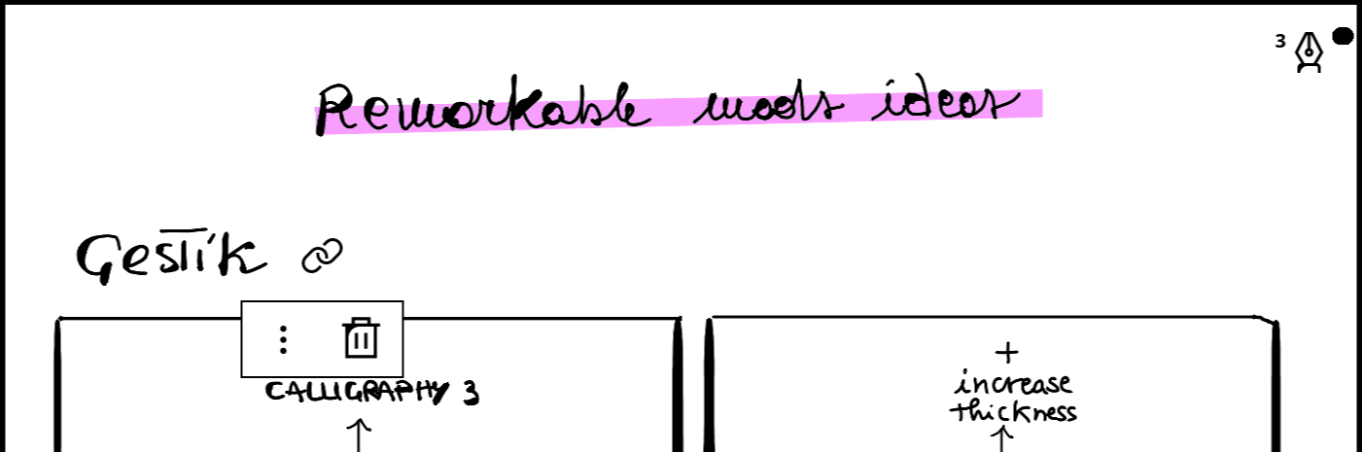
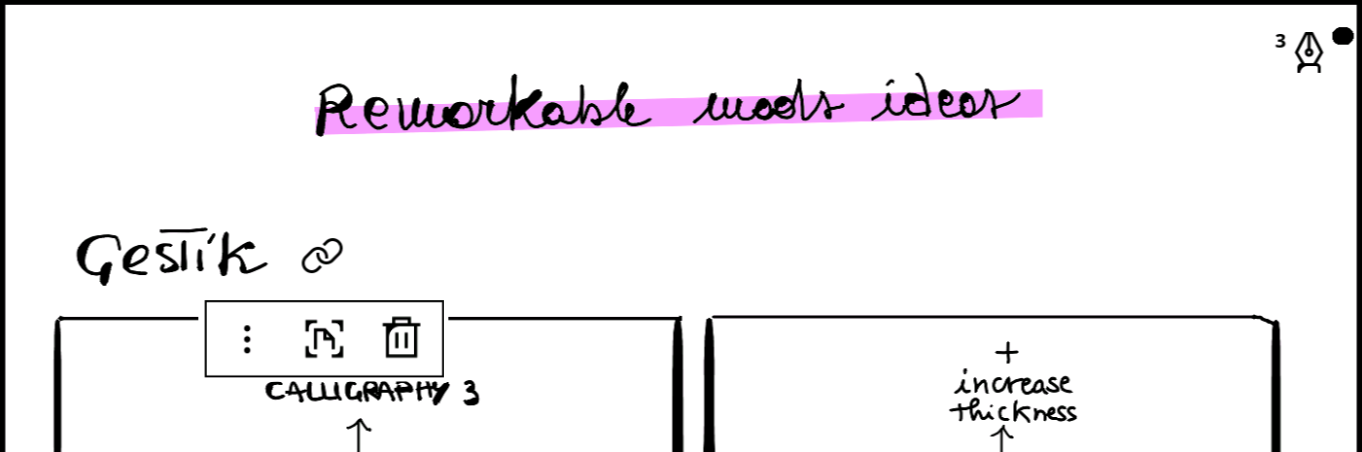
Update README.md for LinkFromSelection

Changed region(s): [[0.1233, 0.6504, 0.3392, 0.8673]]

diff --git a/README.md b/README.md
@@ -92,13 +92,13 @@ Adds links on the page straight from a selection. Lasso some strokes, then tap o
 Links works in `PDF`, `Notebook` and `EPUB` files.
 
 >[!Tip]
-> Long-press the icon for an *edit / delete* menu (re-pick the target, or remove the link). Links are stored *per document*, inside the document's own folder, so they're auto-deleted with it and survive restarts. If a target document or page no longer exists, tapping its icon offers to delete the dangling link.
+> Long-press the icon for an *edit / reposition / delete* menu (re-pick the target, reposition or remove the link). Links are stored *per document*, inside the document's own folder, so they're auto-deleted with it and survive restarts. If a target document or page no longer exists, tapping its icon offers to delete the dangling link.
 
 | ![same document](./assets/Link%20internal%20delete.png) | ![external document](./assets/Link%20external%20delete.png) |
 |:---:|:---:|
 
 >[!Important]
-> A link is independent of the strokes you drew it from: **erasing that handwriting does not delete the link**. A link also can't be selected or dragged, so to move a link, delete it and create a new one in the new position.
+> A link is independent of the strokes you drew it from: **erasing that handwriting does not delete the link**. A link also can't be selected with lasso tool and dragged. If you need to reposition one, you can either long-press the icon and tap on the reposition button, move the original handwriting that generated it, or simply delete the link and create a new one in a new position.
 
 ---
 